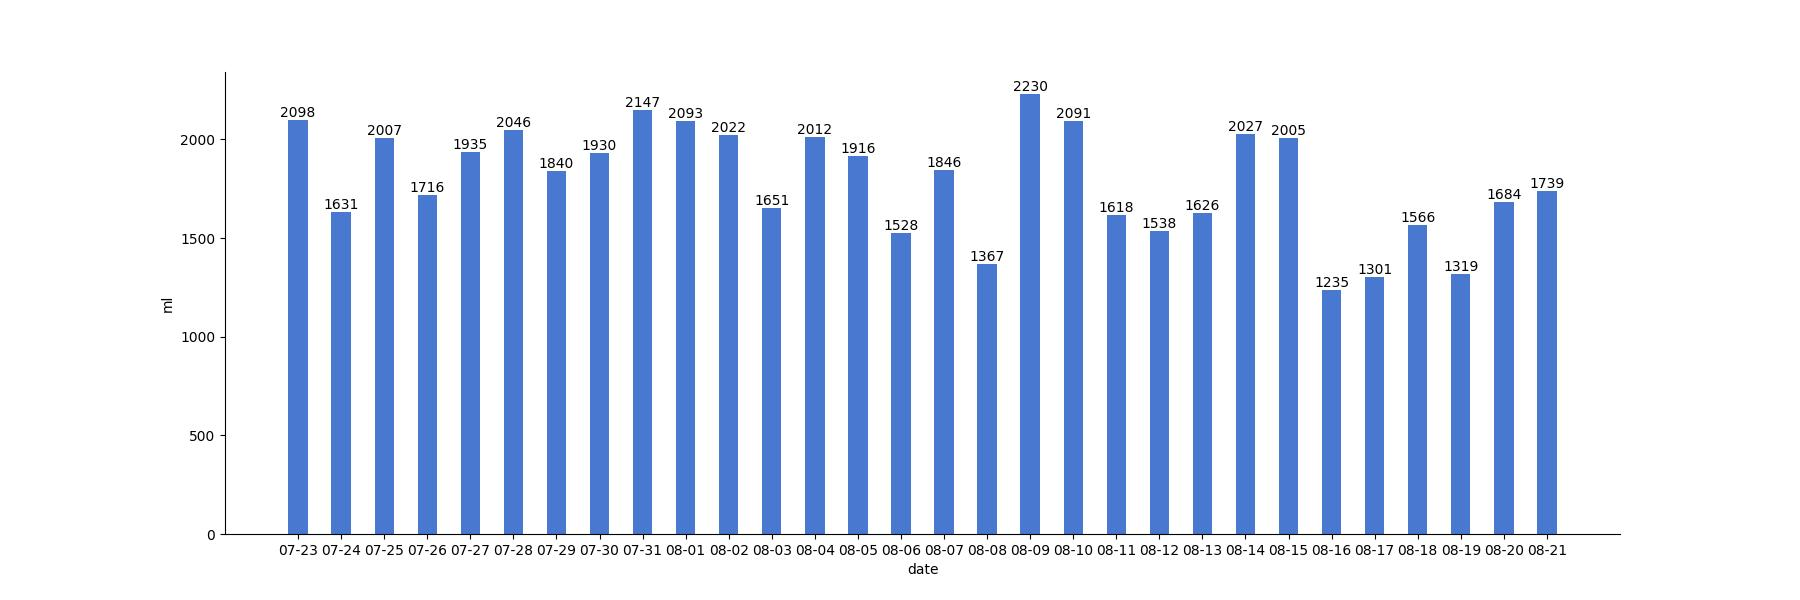
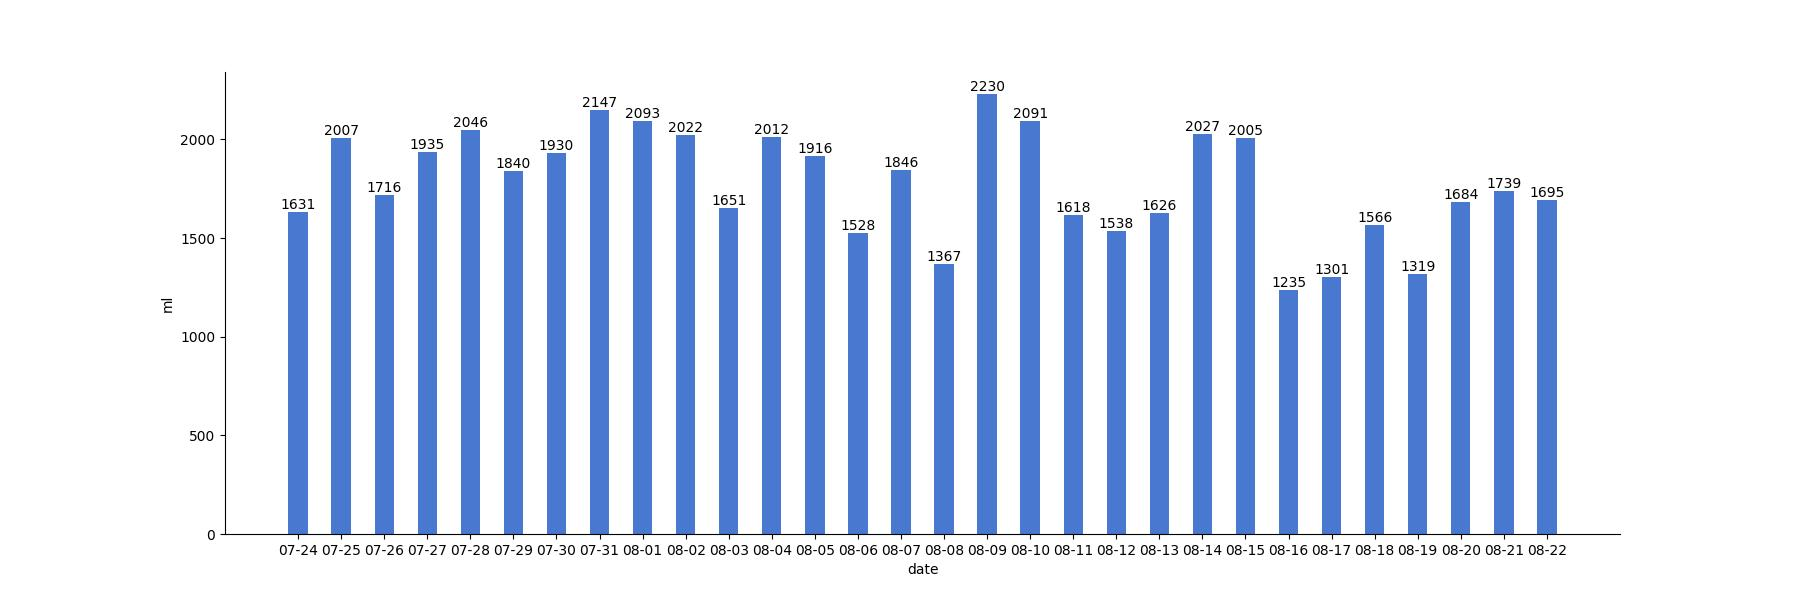
generated readme

diff --git a/README.md b/README.md
@@ -1,17 +1,3 @@
-# 今日饮水数据
-
-<div align=center>
-<img src="today.jpg" style="zoom: 100%;" />
-
-| 今日总饮水量 | 每小时平均饮水量 |
-| :----: | :----: |
-| 1695 | 121 |
-</div>
-
-| 日期 | 00:43:41 | 07:53:02 | 08:07:22 | 09:18:22 | 09:57:37 | 10:11:50 | 12:15:16 | 12:40:49 | 13:06:42 | 14:14:18 | 15:11:37 | 16:18:18 | 17:29:54 | 19:31:11 | 22:02:07 | 22:50:28 | 23:16:29 |
-| :----: | :----: | :----: | :----: | :----: | :----: | :----: | :----: | :----: | :----: | :----: | :----: | :----: | :----: | :----: | :----: | :----: | :----: |
-| 2022-08-22 | 75 | 150 | 93 | 103 | 68 | 84 | 200 | 82 | 87 | 65 | 114 | 67 | 200 | 95 | 52 | 70 | 90 |
-
 # 近30日饮水数据
 
 <div align=center>
@@ -19,8 +5,12 @@
 
 | 总饮水量 | 日均饮水量 |
 | :----: | :----: |
-| 53764 | 1792 |
+| 53361 | 1778 |
 </div>
+
+| 日期 | all | 00:43:41 | 07:53:02 | 08:07:22 | 09:18:22 | 09:57:37 | 10:11:50 | 12:15:16 | 12:40:49 | 13:06:42 | 14:14:18 | 15:11:37 | 16:18:18 | 17:29:54 | 19:31:11 | 22:02:07 | 22:50:28 | 23:16:29 |
+| :----: | :----: | :----: | :----: | :----: | :----: | :----: | :----: | :----: | :----: | :----: | :----: | :----: | :----: | :----: | :----: | :----: | :----: | :----: |
+| 2022-08-22 | 1695 | 75 | 150 | 93 | 103 | 68 | 84 | 200 | 82 | 87 | 65 | 114 | 67 | 200 | 95 | 52 | 70 | 90 |
 
 | 日期 | all | 00:03:31 | 00:49:10 | 01:21:44 | 01:55:00 | 02:27:57 | 02:57:35 | 03:33:15 | 04:00:26 | 04:20:25 | 04:42:17 | 05:12:32 | 05:55:01 | 07:31:15 | 08:18:50 | 15:52:51 | 16:26:36 | 18:56:45 | 20:52:41 | 21:23:50 | 21:53:33 | 22:29:01 | 23:18:25 |
 | :----: | :----: | :----: | :----: | :----: | :----: | :----: | :----: | :----: | :----: | :----: | :----: | :----: | :----: | :----: | :----: | :----: | :----: | :----: | :----: | :----: | :----: | :----: | :----: |
@@ -141,8 +131,4 @@
 | 日期 | all | 00:47:15 | 01:35:58 | 04:02:31 | 04:02:57 | 04:34:47 | 05:06:45 | 05:36:34 | 06:08:27 | 06:48:43 | 07:13:22 | 07:44:55 | 08:12:25 | 08:29:09 | 09:10:56 | 11:08:49 | 11:27:40 | 12:10:33 | 12:23:48 | 18:22:39 | 20:43:47 | 21:42:20 | 22:28:42 | 22:46:24 | 23:55:55 |
 | :----: | :----: | :----: | :----: | :----: | :----: | :----: | :----: | :----: | :----: | :----: | :----: | :----: | :----: | :----: | :----: | :----: | :----: | :----: | :----: | :----: | :----: | :----: | :----: | :----: | :----: |
 | 2022-07-23 | 2098 | 200 | 88 | 78 | 160 | 68 | 300 | 49 | 29 | 44 | 71 | 77 | 43 | 117 | 134 | 26 | 58 | 62 | 77 | 88 | 33 | 98 | 88 | 66 | 44 |
-
-| 日期 | all | 00:11:50 | 00:44:28 | 01:16:46 | 01:42:49 | 02:17:21 | 02:41:25 | 03:02:38 | 03:37:17 | 04:07:39 | 06:02:10 | 06:57:53 | 07:39:00 | 08:13:16 | 17:03:48 | 17:35:14 | 18:23:33 | 20:03:24 | 20:32:21 | 21:35:54 | 22:47:49 |
-| :----: | :----: | :----: | :----: | :----: | :----: | :----: | :----: | :----: | :----: | :----: | :----: | :----: | :----: | :----: | :----: | :----: | :----: | :----: | :----: | :----: | :----: |
-| 2022-07-22 | 1908 | 85 | 200 | 60 | 65 | 80 | 31 | 90 | 83 | 70 | 79 | 79 | 96 | 27 | 82 | 92 | 106 | 400 | 76 | 59 | 48 |
 
